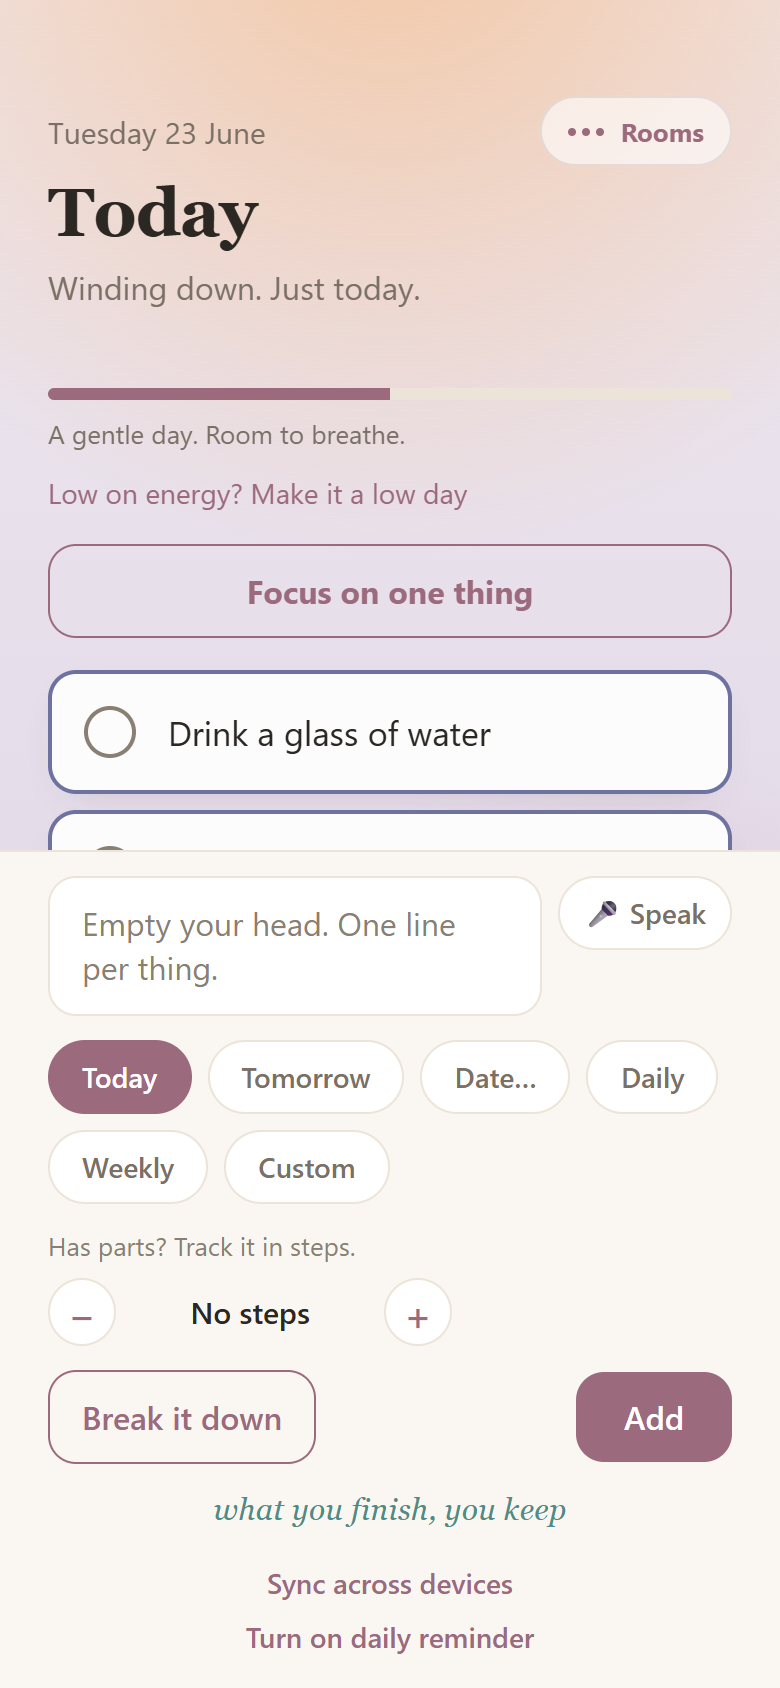
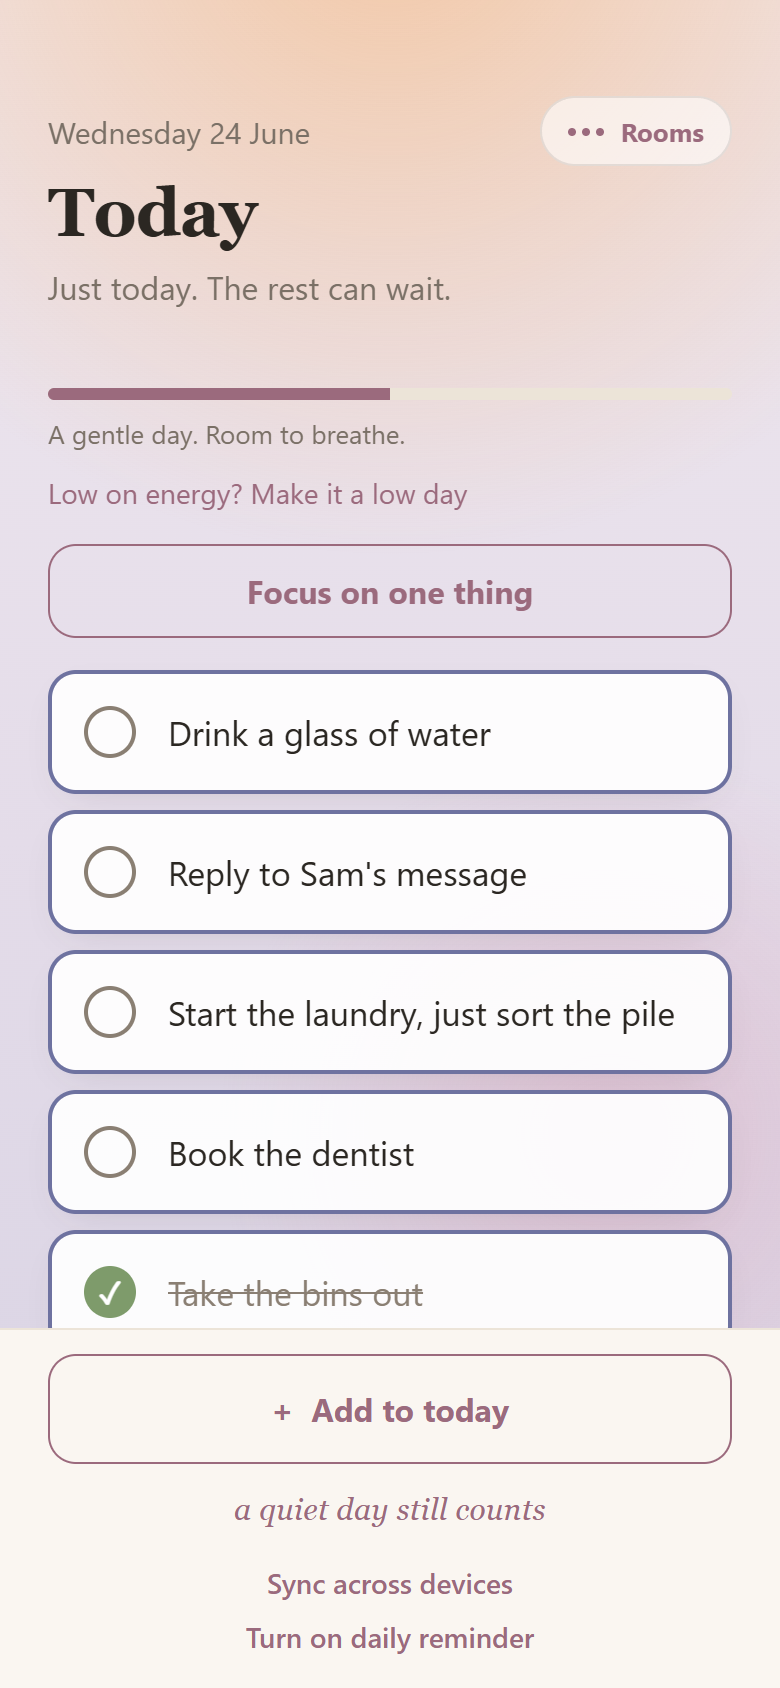
fix(today): collapse the capture into a retractable drawer so the list leads
On device the brain-dump capture was a fixed footer eating the lower half, so the task list
(the point of the screen) was barely visible. The capture is now a slim "Add to today" bar by
default; tap to expand it, "Done adding" to collapse. The list's ScrollView gets the screen
back. Verified on web. Found in the on-device APK test.

diff --git a/client/src/app/index.tsx b/client/src/app/index.tsx
@@ -92,6 +92,7 @@ export default function TodayScreen() {
   const [focusOpen, setFocusOpen] = useState(false);
   const [focusPick, setFocusPick] = useState<string | null>(null);
   const brainDumpRef = useRef<BrainDumpHandle>(null);
+  const [captureOpen, setCaptureOpen] = useState(false);
   const [selectMode, setSelectMode] = useState(false);
   const [selected, setSelected] = useState<string[]>([]);
   const [confirmingId, setConfirmingId] = useState<string | null>(null);
@@ -1188,7 +1189,30 @@ export default function TodayScreen() {
           <>
         {!isClosed && sortSummary && <Text style={styles.sortSummary}>{sortSummary}</Text>}
         {!isClosed && affirmation && <Text style={styles.affirmation}>{affirmation}</Text>}
-        {!isClosed && <BrainDump ref={brainDumpRef} onCapture={capture} onBiteElephant={biteElephant} onSort={sortDump} today={today} />}
+        {!isClosed &&
+          (captureOpen ? (
+            <View style={styles.capturePanel}>
+              <Pressable
+                onPress={() => setCaptureOpen(false)}
+                accessibilityRole="button"
+                accessibilityLabel="Collapse the add panel"
+                hitSlop={8}
+                style={styles.captureHandle}
+              >
+                <Text style={styles.optLink}>Done adding</Text>
+              </Pressable>
+              <BrainDump ref={brainDumpRef} onCapture={capture} onBiteElephant={biteElephant} onSort={sortDump} today={today} />
+            </View>
+          ) : (
+            <Pressable
+              onPress={() => setCaptureOpen(true)}
+              accessibilityRole="button"
+              accessibilityLabel="Add a task to today"
+              style={({ pressed }) => [styles.addBar, pressed && styles.pressed]}
+            >
+              <Text style={styles.focusEntryText}>+  Add to today</Text>
+            </Pressable>
+          ))}
         <View style={styles.ethos}>
           <RotatingPhrase />
         </View>
@@ -1706,6 +1730,9 @@ const makeStyles = (t: Theme) =>
     planWhen: { color: t.colors.accent, fontSize: 14 * t.scale, fontWeight: '600', fontFamily: fonts.bodyBold },
     planDismiss: { color: t.colors.inkSoft, fontSize: 15 * t.scale, textAlign: 'center', marginTop: spacing.two, fontFamily: fonts.body },
     pressed: { opacity: 0.85 },
+    addBar: { borderWidth: 1, borderColor: t.colors.accent, borderRadius: radius.md, paddingVertical: spacing.four, alignItems: 'center' },
+    capturePanel: { gap: spacing.two },
+    captureHandle: { alignSelf: 'center', paddingVertical: spacing.two },
     alsoDidLink: { color: t.colors.accent, fontSize: 15 * t.scale, fontFamily: fonts.bodyBold, fontWeight: '600' },
     didTitle: { color: t.colors.ink, fontSize: 21 * t.scale, fontWeight: '600', fontFamily: fonts.sans, letterSpacing: -0.3 },
     didHint: { color: t.colors.inkSoft, fontSize: 14 * t.scale, lineHeight: 20 * t.scale, fontFamily: fonts.body },